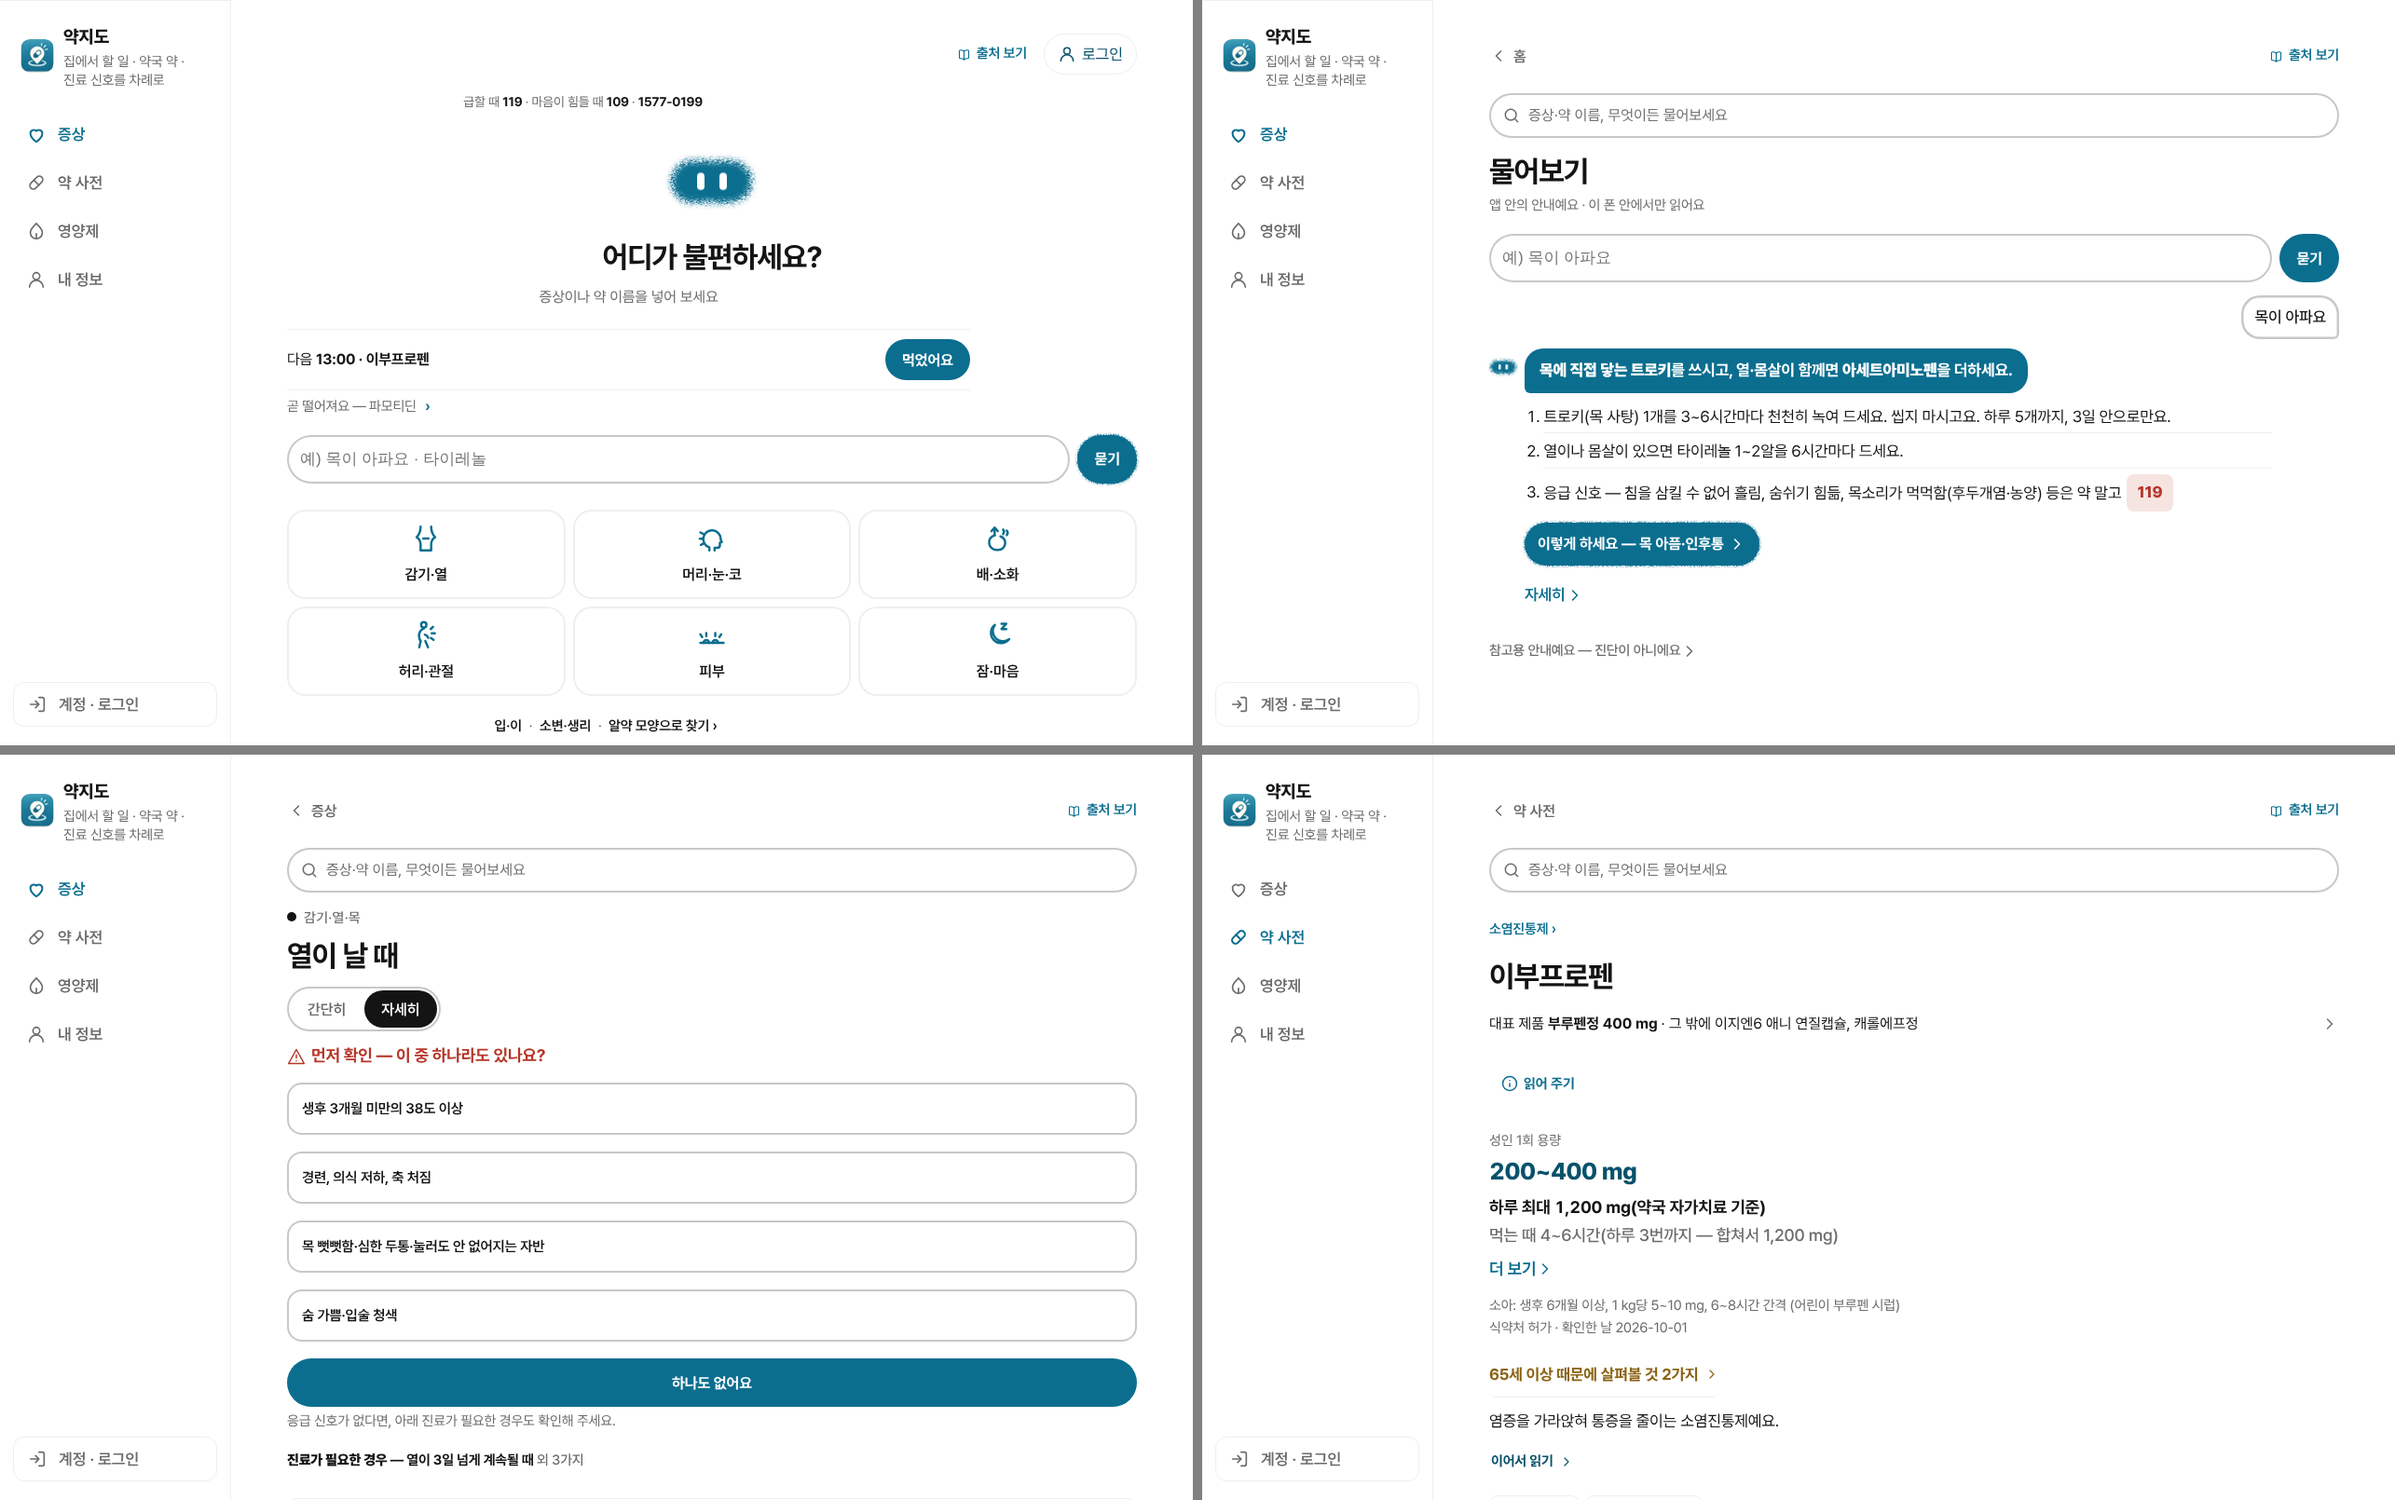
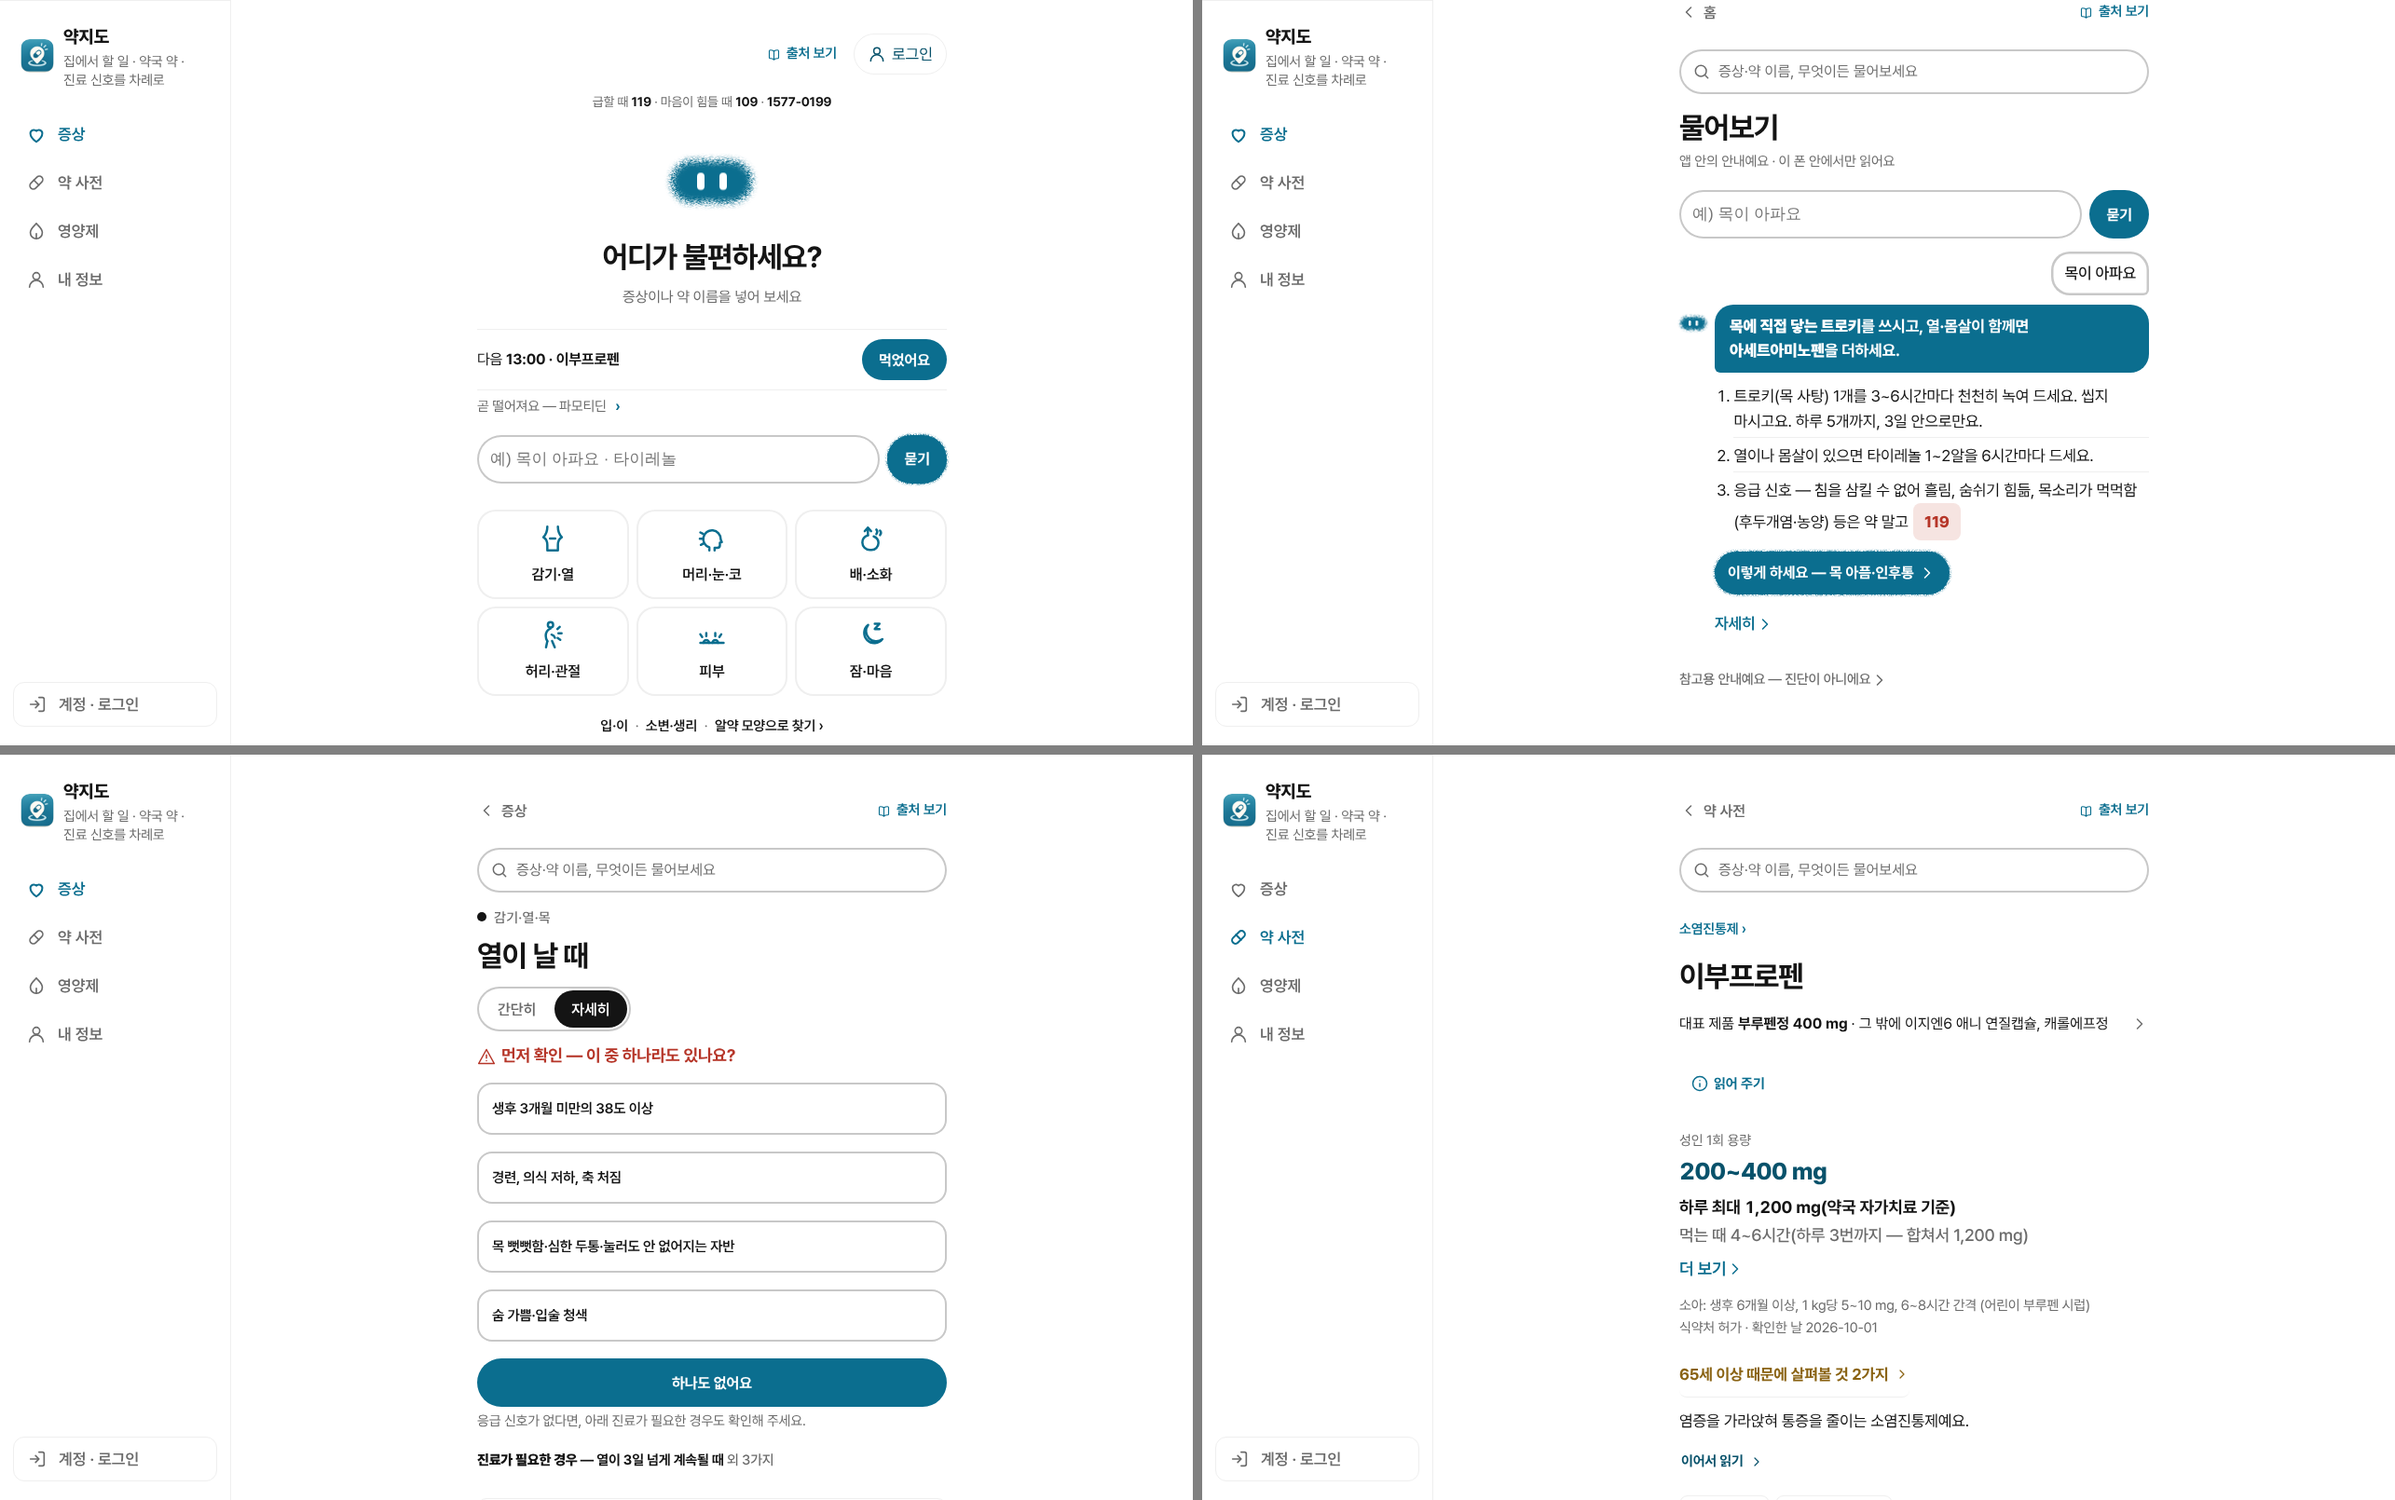
약지도 잉크: PC 한 단 600px — design 결함 0(두 판)
Claude-Session: https://claude.ai/code/session_01EnA5kC7cG7NGAyuaz7gY2Z

diff --git a/docs/yakjido/sw.js b/docs/yakjido/sw.js
@@ -9,7 +9,7 @@
                        판이 같으면 캐시 그대로, 판이 바뀌면 새로 받아 넣고 옛 판은 지운다(prune).
    판 없는 옛 주소는 «캐시 먼저» — 한 번 받은 것은 즉시 열리고, 뒤에서 조용히 새로 받아 둔다.
    인터넷이 안 되면 어느 캐시에든 있는 사본을 준다(5-01 — 첫 방문 뒤 비행기 모드에서 본문이 안 뜨던 것). */
-const CACHE = 'yakjido-2026-11-17T02:49-a7e48f30';
+const CACHE = 'yakjido-2026-11-17T07:21-978fc5e7';
 const DATA = 'yakjido-data-v1';
 /* 기내 모드·바깥 파일 0(10-27) — 글꼴(fonts/)·로그인 프로그램(vendor/)은 배포 묶음 안. 판이 박힌 꾸러미라 내용이 안 바뀌니 «캐시 먼저», 앱 판이 바뀌어도 지우지 않는다(EXT).
    바깥 주소는 하나도 담지 않는다 — 서버 응답(supabase REST)·날씨는 그대로 지나간다(09-22 원칙) */

diff --git a/docs/yakjido/ink.css b/docs/yakjido/ink.css
@@ -204,3 +204,6 @@ html.ink .rf-i:has(input:focus-visible){outline:3px solid var(--primary);outline
 html.ink .view-seg{display:inline-flex!important;padding:4px;border-radius:999px;background:transparent!important;border:0!important;box-shadow:inset 0 0 0 2px var(--rim)!important;gap:2px}
 html.ink .view-seg button{border:0!important;border-radius:999px!important;background:transparent!important;color:var(--muted)!important;padding:0 18px!important;min-height:40px!important;font-weight:600}
 html.ink .view-seg button.on{background:var(--text)!important;color:var(--surface)!important}
+
+/* 11-17 PC — 잉크는 한 단 560~600px(디자인 언어 「한 줄 폭 560px 한 단」). 옆 메뉴는 그대로 */
+@media (min-width:1024px){ html.ink #view{max-width:600px;margin-left:auto;margin-right:auto} }

diff --git a/docs/yakjido/index.html b/docs/yakjido/index.html
@@ -1810,8 +1810,8 @@ html:not(.ink) .rf-none{display:none}</style>
 <script>
 window.__YAKJIDO_OK__ = true;
 const D = JSON.parse(document.getElementById('data').textContent || '{}');
-const BUILD = '2026-11-17 02:49';
-const DATAV = '91bff94b80'.indexOf('__') === 0 ? BUILD : '91bff94b80';
+const BUILD = '2026-11-17 07:21';
+const DATAV = 'e4520ff050'.indexOf('__') === 0 ? BUILD : 'e4520ff050';
 const BRANDMARK = (typeof window !== 'undefined' && window.__BRANDMARK__) || 'icon-192.png';
 let CORE = 0, CORE_P = null;
 function mergeCore(c){
